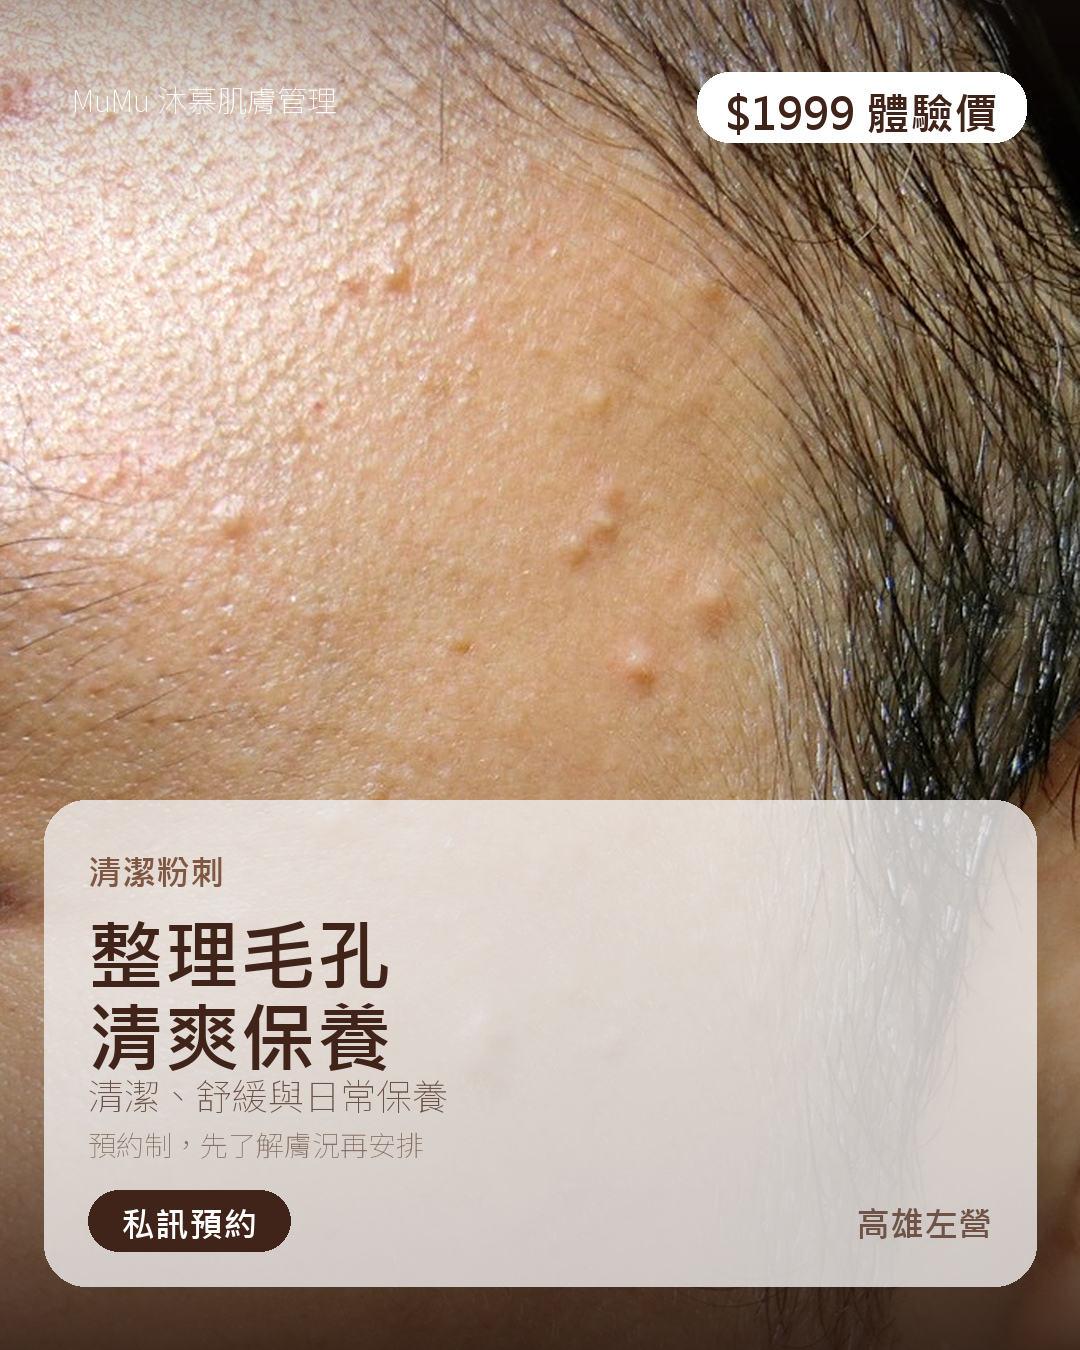
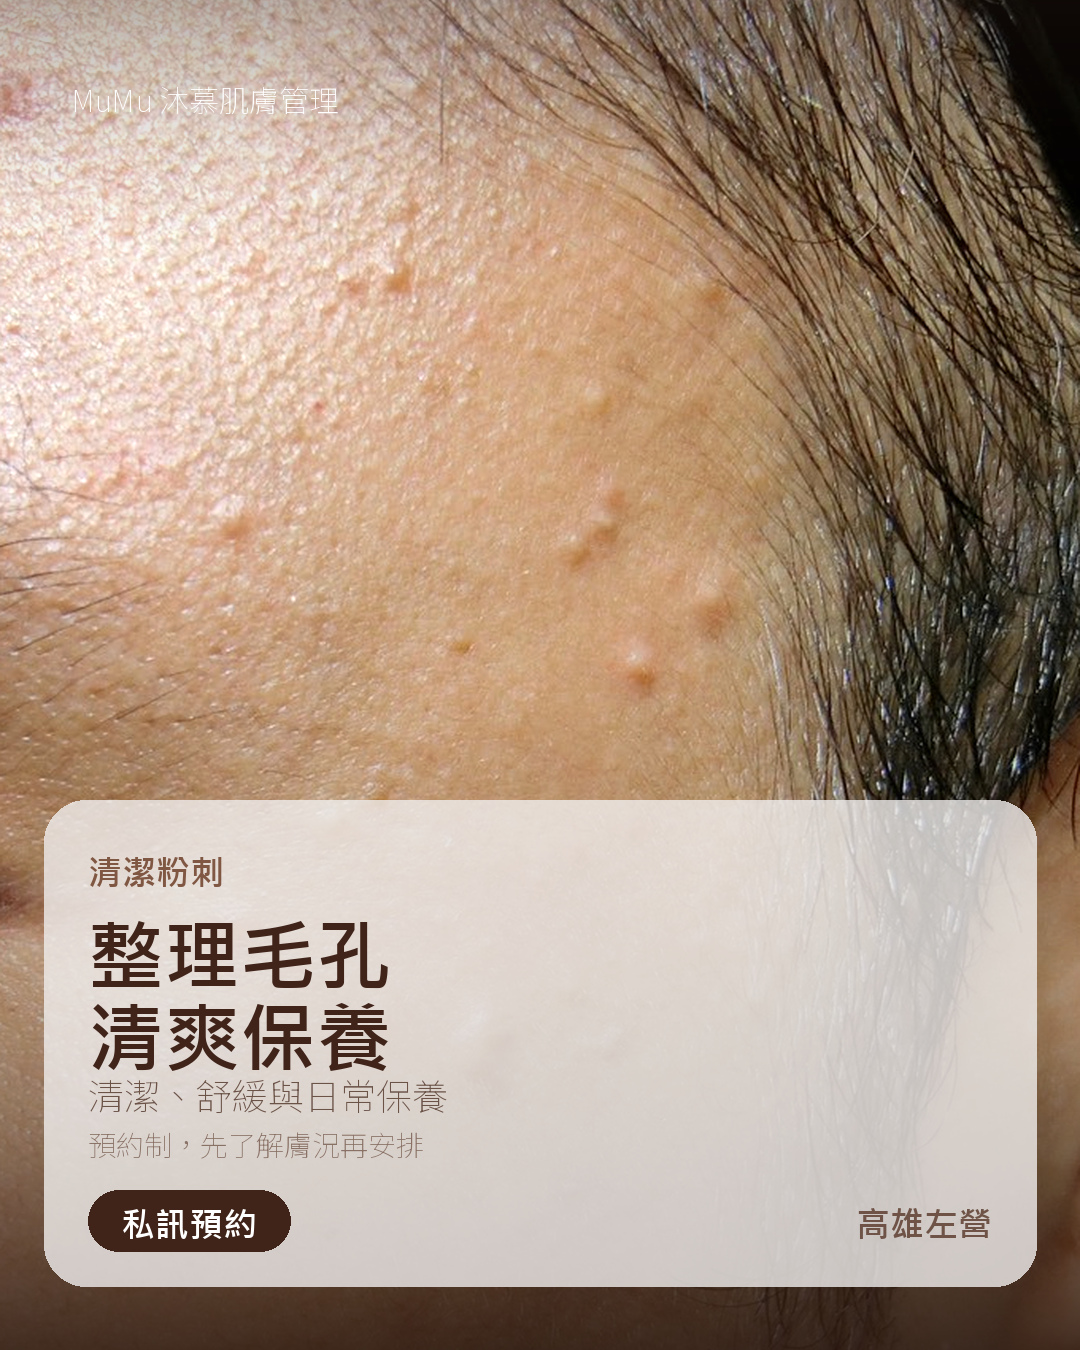
Remove price from second and third cards

Changed region(s): [[0.6417, 0.0311, 0.9472, 0.1244], [0.1528, 0.0622, 0.3056, 0.0933], [0.0917, 0.0622, 0.1222, 0.0933]]

diff --git a/index.html b/index.html
@@ -389,19 +389,19 @@ MuMu 沐慕肌膚管理提供臉部清潔保養服務，依照膚況安排清潔
               </div>
 
               <div class="card">
-                <img src="02_pore_cleansing.jpg?v=copy-refined-1999" alt="整理毛孔清爽保養廣告圖">
+                <img src="02_pore_cleansing.jpg?v=no-price-23" alt="整理毛孔清爽保養廣告圖">
                 <div class="card-text">
                   <div class="card-title">整理毛孔清爽保養</div>
-                  <div class="card-sub">$1999 體驗價｜清潔、舒緩與日常保養</div>
+                  <div class="card-sub">清潔、舒緩與日常保養</div>
                   <div class="button">私訊預約</div>
                 </div>
               </div>
 
               <div class="card">
-                <img src="03_kaohsiung_booking.jpg?v=copy-refined-1999" alt="臉部清潔保養體驗廣告圖">
+                <img src="03_kaohsiung_booking.jpg?v=no-price-23" alt="臉部清潔保養體驗廣告圖">
                 <div class="card-text">
                   <div class="card-title">臉部清潔保養體驗</div>
-                  <div class="card-sub">$1999 體驗價｜私訊了解適合課程</div>
+                  <div class="card-sub">私訊了解適合課程</div>
                   <div class="button">私訊預約</div>
                 </div>
               </div>
@@ -440,11 +440,11 @@ MuMu 沐慕肌膚管理提供臉部清潔保養服務，依照膚況安排清潔
               <div>1. 粉刺毛孔清潔保養</div>
             </div>
             <div class="mini">
-              <img src="02_pore_cleansing.jpg?v=copy-refined-1999" alt="第二張輪播圖">
+              <img src="02_pore_cleansing.jpg?v=no-price-23" alt="第二張輪播圖">
               <div>2. 整理毛孔清爽保養</div>
             </div>
             <div class="mini">
-              <img src="03_kaohsiung_booking.jpg?v=copy-refined-1999" alt="第三張輪播圖">
+              <img src="03_kaohsiung_booking.jpg?v=no-price-23" alt="第三張輪播圖">
               <div>3. 臉部清潔保養體驗</div>
             </div>
           </div>
@@ -455,11 +455,11 @@ MuMu 沐慕肌膚管理提供臉部清潔保養服務，依照膚況安排清潔
             </div>
             <div class="copy-item">
               <strong>第 2 張｜整理毛孔清爽保養</strong>
-              <p>說明：$1999 體驗價｜清潔、舒緩與日常保養<br>CTA：私訊預約</p>
+              <p>說明：清潔、舒緩與日常保養<br>CTA：私訊預約</p>
             </div>
             <div class="copy-item">
               <strong>第 3 張｜臉部清潔保養體驗</strong>
-              <p>說明：$1999 體驗價｜私訊了解適合課程<br>CTA：私訊預約</p>
+              <p>說明：私訊了解適合課程<br>CTA：私訊預約</p>
             </div>
           </div>
         </div>
